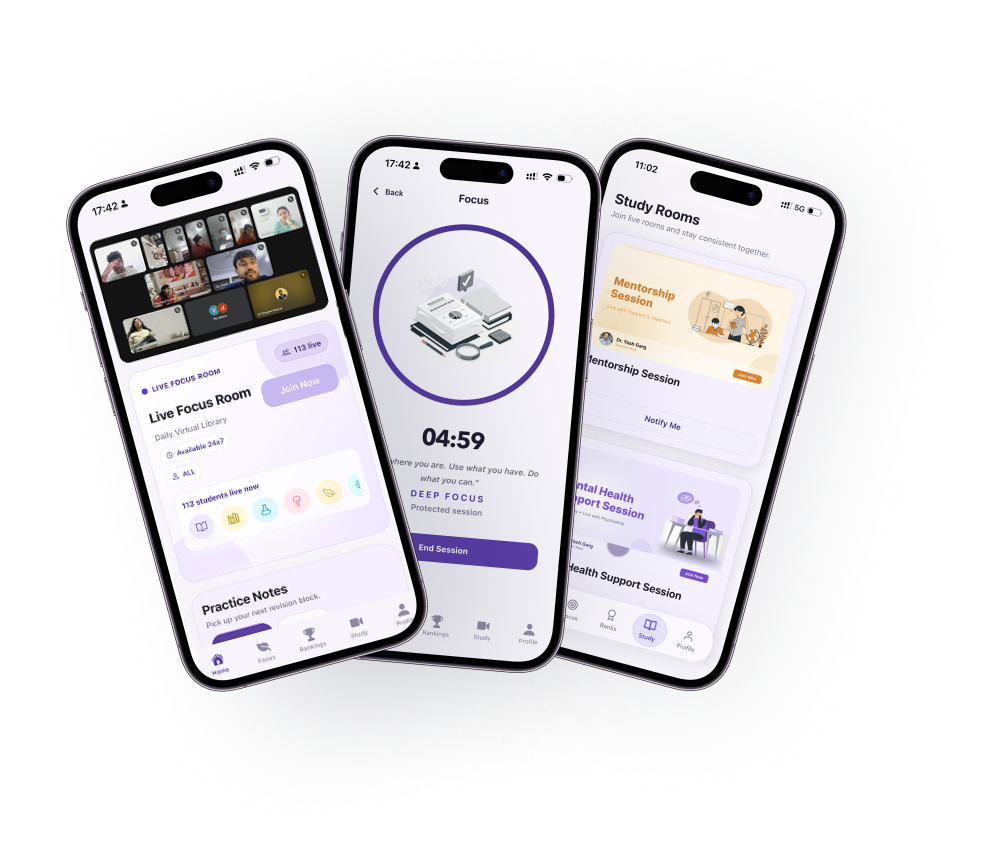
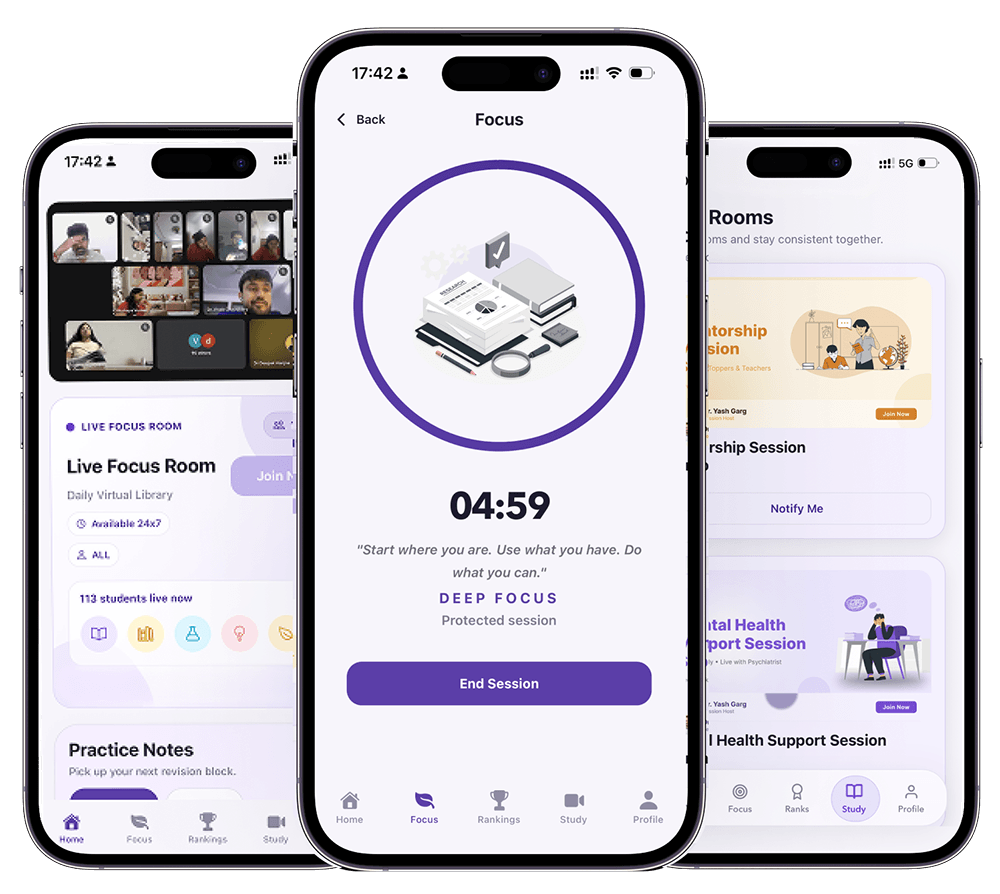
updates

diff --git a/components/v2/VirtualStudyHero.tsx b/components/v2/VirtualStudyHero.tsx
@@ -1,15 +1,23 @@
 const HERO_LIVE_ROOM_IMAGE = '/img/v2/hero_asset/hero_section.png'
 
 type VirtualStudyHeroProps = {
+  eyebrowText?: string
   primaryHref?: string
   googlePlayHref: string
   appStoreHref: string
 }
 
-const PROOF_CHIPS = [
-  { value: '235', label: 'studying now', tone: 'live' },
-  { value: '24/7', label: 'rooms open', tone: 'purple' },
-  { value: '3,000+', label: 'aspirants', tone: 'blue' },
+const PROOF_CARDS = [
+  {
+    icon: 'users',
+    title: '150+ Students Live',
+    description: 'Studying together right now',
+  },
+  {
+    icon: 'clock',
+    title: '24/7 Study Rooms',
+    description: 'Join anytime, day or night',
+  },
 ]
 
 const HERO_STATS = [
@@ -20,43 +28,42 @@ const HERO_STATS = [
 ]
 
 export default function VirtualStudyHero({
+  eyebrowText = "India's first Virtual Library Space",
   primaryHref = '#plans',
   googlePlayHref,
   appStoreHref,
 }: VirtualStudyHeroProps) {
   return (
     <section className="relative overflow-hidden bg-[linear-gradient(145deg,#f6f2ff_0%,#f2f8ff_46%,#fff7fb_100%)]">
-      <div className="relative mx-auto grid min-h-[calc(100svh-4rem)] w-full max-w-7xl items-center gap-8 px-4 py-7 sm:px-6 sm:py-9 lg:grid-cols-[minmax(0,1fr)_minmax(360px,520px)] lg:gap-12 lg:py-10">
-        <div className="relative z-20 mx-auto max-w-2xl text-center lg:mx-0 lg:text-left">
-          <p className="inline-flex items-center gap-2 rounded-full border border-[#c9ddff] bg-white/80 px-4 py-2 text-[0.78rem] font-bold text-[#185cff] shadow-[0_12px_28px_rgba(37,92,255,0.08)] backdrop-blur sm:text-sm">
-            <span className="relative flex h-2.5 w-2.5" aria-hidden="true">
-              <span className="absolute inline-flex h-full w-full animate-ping rounded-full bg-[#00d7a0] opacity-40" />
-              <span className="relative inline-flex h-2.5 w-2.5 rounded-full bg-[#00d7a0]" />
-            </span>
-            India's 24/7 Virtual Library
+      <div className="relative mx-auto flex w-full max-w-7xl flex-col items-center gap-5 px-4 pb-7 pt-6 text-center sm:gap-6 sm:px-6 sm:py-8 lg:min-h-[calc(100svh-4.5rem)] lg:flex-row lg:justify-between lg:gap-9 lg:py-5 lg:text-left xl:gap-12">
+        <div className="relative z-20 flex w-full max-w-xl flex-col items-center lg:max-w-3xl lg:items-start">
+          <p className="inline-flex items-center gap-2 rounded-full border border-[#e4dcff] bg-[#f1edff] px-4 py-2 text-[0.78rem] font-bold text-[#5b2ee5] shadow-[0_12px_28px_rgba(91,46,229,0.08)] sm:text-sm">
+            <TrophyIcon className="h-4 w-4" />
+            {eyebrowText}
           </p>
 
-          <h1 className="mt-5 text-[2.75rem] font-extrabold leading-[0.98] tracking-normal text-[#070711] sm:text-[4.35rem] lg:max-w-[40rem] lg:text-[5.15rem] xl:text-[5.7rem]">
-            24/7 Virtual{' '}
-            <span className="block bg-[linear-gradient(90deg,#265cff_0%,#7c3aed_52%,#8b22ff_100%)] bg-clip-text text-transparent">
-              Study Rooms
-            </span>
+          <h1 className="mt-4 max-w-[25rem] text-[2.85rem] font-bold leading-[1.02] tracking-normal text-[#050509] sm:max-w-[38rem] sm:text-[4rem] lg:max-w-3xl lg:text-[4.85rem] xl:text-[5.15rem]">
+            Stay{' '}
+            <span className="bg-[linear-gradient(90deg,#265cff_0%,#7c3aed_52%,#8b22ff_100%)] bg-clip-text text-transparent">
+              consistent
+            </span>{' '}
+            from home
           </h1>
 
-          <p className="mx-auto mt-5 max-w-xl text-base font-medium leading-7 text-[#625b74] sm:text-xl sm:leading-8 lg:mx-0">
-            Study from home with serious aspirants in always-on live rooms built for focus, discipline, and accountability.
+          <p className="mt-4 max-w-xl text-base font-medium leading-7 text-[#625b74] sm:text-lg sm:leading-8">
+            Join 3000+ aspirants in 24x7 study rooms built for focus, discipline, and accountability.
           </p>
 
-          <div className="mt-6 grid grid-cols-3 gap-2 sm:max-w-xl sm:gap-3 lg:max-w-lg">
-            {PROOF_CHIPS.map((chip) => (
-              <ProofChip key={chip.label} {...chip} />
+          <div className="mt-6 grid w-full max-w-md grid-cols-2 gap-2.5 lg:max-w-lg">
+            {PROOF_CARDS.map((card) => (
+              <ProofCard key={card.title} {...card} />
             ))}
           </div>
 
-          <div className="mt-6 grid gap-3 sm:grid-cols-[minmax(0,1fr)_minmax(0,1fr)] lg:max-w-xl">
+          <div className="mt-5 grid w-full max-w-md gap-3 sm:grid-cols-[minmax(0,1fr)_minmax(0,1fr)] lg:max-w-xl">
             <a
               href={primaryHref}
-              className="inline-flex h-14 items-center justify-center gap-2 rounded-[18px] bg-[#6d28d9] px-6 text-base font-bold text-white shadow-[0_18px_38px_rgba(109,40,217,0.24)] transition hover:bg-[#5b21b6] sm:rounded-[22px] sm:text-lg"
+              className="inline-flex h-14 items-center justify-center gap-2 rounded-[18px] bg-[#6d28d9] px-6 text-base font-bold text-white shadow-[0_18px_38px_rgba(109,40,217,0.24)] transition hover:bg-[#5b21b6] sm:text-lg"
             >
               Join Virtual Library Now
               <ArrowRightIcon className="h-5 w-5" />
@@ -65,27 +72,21 @@ export default function VirtualStudyHero({
           </div>
         </div>
 
-        <div className="relative z-10 mx-auto flex w-full max-w-[24rem] justify-center lg:max-w-[34rem]">
-          <div className="relative h-[19rem] w-full overflow-hidden sm:h-[30rem] lg:h-[38rem]">
-            <img
-              src={HERO_LIVE_ROOM_IMAGE}
-              alt="Virtual Library app live study room with students studying together"
-              className="pointer-events-none absolute left-1/2 top-0 h-[35rem] -translate-x-1/2 object-contain drop-shadow-[0_28px_80px_rgba(69,31,149,0.24)] sm:h-[48rem] lg:h-[53rem]"
-            />
-            <div className="pointer-events-none absolute inset-x-0 bottom-0 h-20 bg-[linear-gradient(180deg,rgba(250,247,255,0)_0%,rgba(250,247,255,0.92)_72%,#faf7ff_100%)] sm:h-24" />
-          </div>
-
-          <div className="absolute -left-1 top-7 hidden rounded-2xl border border-[#d8ccff] bg-white/95 px-4 py-3 shadow-[0_18px_42px_rgba(48,31,90,0.12)] backdrop-blur sm:block lg:left-0 lg:top-12">
-            <p className="flex items-center gap-2 text-xs font-bold uppercase text-[#0f9f91]">
-              <span className="h-2.5 w-2.5 rounded-full bg-[#00d7a0]" />
-              Live now
-            </p>
-            <p className="mt-1 text-lg font-extrabold text-[#171322]">235 studying</p>
-          </div>
-
-          <div className="absolute -right-1 bottom-14 hidden rounded-2xl border border-[#ebe2ff] bg-white/95 px-4 py-3 shadow-[0_18px_42px_rgba(48,31,90,0.10)] backdrop-blur sm:block lg:right-1 lg:bottom-20">
-            <p className="text-xs font-bold uppercase text-[#7c3aed]">Always open</p>
-            <p className="mt-1 text-lg font-extrabold text-[#171322]">24/7 rooms</p>
+        <div className="relative z-10 mx-auto flex w-full max-w-[23rem] justify-center sm:max-w-[26rem] lg:mx-0 lg:max-w-[34rem] xl:max-w-[36rem]">
+          <div className="relative h-[18rem] w-full sm:h-[23rem] lg:h-[35rem] xl:h-[39rem]">
+            <div
+              className="absolute -inset-x-8 -bottom-8 -top-5 overflow-hidden sm:-inset-x-12 sm:-bottom-10 sm:-top-8"
+              style={{
+                WebkitMaskImage: 'linear-gradient(180deg,#000 0%,#000 76%,rgba(0,0,0,0.72) 86%,rgba(0,0,0,0) 100%)',
+                maskImage: 'linear-gradient(180deg,#000 0%,#000 76%,rgba(0,0,0,0.72) 86%,rgba(0,0,0,0) 100%)',
+              }}
+            >
+              <img
+                src={HERO_LIVE_ROOM_IMAGE}
+                alt="Virtual Library app live study room with students studying together"
+                className="pointer-events-none absolute left-1/2 top-4 h-[34rem] -translate-x-1/2 object-contain drop-shadow-[0_36px_96px_rgba(69,31,149,0.18)] sm:top-6 sm:h-[42rem] lg:h-[50rem] xl:h-[54rem]"
+              />
+            </div>
           </div>
         </div>
       </div>
@@ -104,19 +105,55 @@ export default function VirtualStudyHero({
   )
 }
 
-function ProofChip({ value, label, tone }: { value: string; label: string; tone: string }) {
-  const toneClass =
-    tone === 'live'
-      ? 'border-[#b7f4df] bg-[#f1fff8] text-[#0f9f91]'
-      : tone === 'blue'
-        ? 'border-[#c9ddff] bg-[#f3f8ff] text-[#185cff]'
-        : 'border-[#d8ccff] bg-white text-[#6d28d9]'
-
+function ProofCard({
+  icon,
+  title,
+  description,
+}: {
+  icon: string
+  title: string
+  description: string
+}) {
   return (
-    <div className={`rounded-2xl border px-3 py-3 text-center shadow-[0_12px_26px_rgba(35,24,70,0.05)] ${toneClass}`}>
-      <p className="text-lg font-extrabold leading-none sm:text-2xl">{value}</p>
-      <p className="mt-1 text-[0.72rem] font-bold leading-4 text-[#575069] sm:text-sm">{label}</p>
+    <div className="inline-flex h-14 min-w-0 items-center gap-2.5 rounded-full border border-[#ebe7f6] bg-white/95 px-3 text-left shadow-[0_12px_28px_rgba(48,31,90,0.06)] sm:px-3.5">
+      <span className="flex h-10 w-10 shrink-0 items-center justify-center rounded-full bg-[#eee8ff] text-[#5b2ee5]">
+        {icon === 'clock' ? <ClockIcon className="h-5 w-5" /> : <UsersIcon className="h-5 w-5" />}
+      </span>
+      <span className="min-w-0">
+        <span className="block truncate text-[0.82rem] font-bold leading-4 text-[#070711] sm:text-sm">{title}</span>
+        <span className="hidden text-xs font-medium leading-4 text-[#625b74] xl:block">
+          {description}
+        </span>
+      </span>
     </div>
+  )
+}
+
+function TrophyIcon({ className }: { className?: string }) {
+  return (
+    <svg viewBox="0 0 24 24" fill="none" stroke="currentColor" aria-hidden="true" className={className}>
+      <path d="M8 4h8v3.5c0 3-1.8 5.5-4 5.5S8 10.5 8 7.5V4Z" strokeLinecap="round" strokeLinejoin="round" strokeWidth="2.2" />
+      <path d="M8 6H5.5A1.5 1.5 0 0 0 4 7.5C4 10 5.6 12 8.2 12M16 6h2.5A1.5 1.5 0 0 1 20 7.5c0 2.5-1.6 4.5-4.2 4.5M12 13v4M9 20h6M10 17h4" strokeLinecap="round" strokeLinejoin="round" strokeWidth="2.2" />
+    </svg>
+  )
+}
+
+function UsersIcon({ className }: { className?: string }) {
+  return (
+    <svg viewBox="0 0 24 24" fill="none" stroke="currentColor" aria-hidden="true" className={className}>
+      <path d="M9.5 11a3.5 3.5 0 1 0 0-7 3.5 3.5 0 0 0 0 7ZM3.8 20c.8-3.2 3-5 5.7-5s4.9 1.8 5.7 5" strokeLinecap="round" strokeLinejoin="round" strokeWidth="2.2" />
+      <path d="M16.2 11.4a3 3 0 1 0-.8-5.9M15.5 15.2c2.4.4 4.1 2 4.7 4.8" strokeLinecap="round" strokeLinejoin="round" strokeWidth="2.2" />
+    </svg>
+  )
+}
+
+function ClockIcon({ className }: { className?: string }) {
+  return (
+    <svg viewBox="0 0 24 24" fill="none" stroke="currentColor" aria-hidden="true" className={className}>
+      <path d="M12 21a9 9 0 1 0-9-9 9 9 0 0 0 9 9Z" strokeLinecap="round" strokeLinejoin="round" strokeWidth="2.2" />
+      <path d="M12 7v5l3 2" strokeLinecap="round" strokeLinejoin="round" strokeWidth="2.2" />
+      <path d="M18.5 19.5h2.7M21.2 19.5v-3.1M21.2 19.5l-3.1-3.1" strokeLinecap="round" strokeLinejoin="round" strokeWidth="2" />
+    </svg>
   )
 }
 
@@ -128,14 +165,14 @@ function DownloadStoreButton({
   appStoreHref: string
 }) {
   return (
-    <div className="flex h-14 w-full items-center justify-center gap-4 rounded-[18px] border border-[#e2ddea] bg-white px-6 text-sm font-bold text-[#070711] shadow-[0_12px_26px_rgba(35,24,70,0.05)] sm:gap-5 sm:rounded-[22px] sm:text-lg">
+    <div className="flex h-14 w-full items-center justify-center gap-3 rounded-[18px] border border-[#e2ddea] bg-white px-6 text-base font-bold text-[#070711] shadow-[0_12px_26px_rgba(35,24,70,0.05)] sm:text-lg">
       <span>Download on</span>
       <a href={googlePlayHref} target="_blank" rel="noreferrer" aria-label="Download on Google Play">
-        <PlayStoreIcon className="h-5 w-5 sm:h-7 sm:w-7" />
+        <PlayStoreIcon className="h-6 w-6" />
       </a>
-      <span aria-hidden="true" className="h-6 w-px bg-[#d8d3df] sm:h-7" />
+      <span aria-hidden="true" className="h-6 w-px bg-[#d8d3df]" />
       <a href={appStoreHref} target="_blank" rel="noreferrer" aria-label="Download on App Store">
-        <AppleIcon className="h-5 w-5 text-[#8b8b8b] sm:h-7 sm:w-7" />
+        <AppleIcon className="h-6 w-6 text-[#8b8b8b]" />
       </a>
     </div>
   )

diff --git a/pages/neet-pg.tsx b/pages/neet-pg.tsx
@@ -529,7 +529,11 @@ export default function Home() {
       <div className="min-h-screen overflow-x-hidden bg-[#f7f6fb] text-[#171322]">
         <SiteNavbar />
         <main>
-          <VirtualStudyHero googlePlayHref={GOOGLE_PLAY_HREF} appStoreHref={APP_STORE_HREF} />
+          <VirtualStudyHero
+            eyebrowText="India's Premier NEET-PG platform"
+            googlePlayHref={GOOGLE_PLAY_HREF}
+            appStoreHref={APP_STORE_HREF}
+          />
           <FeatureSection />
           <TogetherSection />
           <AudienceSection />
@@ -581,10 +585,10 @@ function FeatureSection() {
                 aria-expanded={isExpanded}
                 aria-controls={`feature-description-${index}`}
                 onClick={() => setExpandedFeature(isExpanded ? null : index)}
-                className="group w-full rounded-[22px] border border-[#e5deee] bg-white/95 p-5 text-left shadow-[0_18px_42px_rgba(48,31,90,0.08)] ring-1 ring-white/70 transition duration-300 hover:-translate-y-1 hover:border-[#c7b3ff] hover:shadow-[0_28px_70px_rgba(90,54,180,0.14)] sm:min-h-[252px] sm:cursor-default sm:rounded-[28px] sm:p-7"
+                className="group w-full rounded-[22px] border border-[#e5deee] bg-white/95 p-5 text-left ring-1 ring-white/70 transition duration-300 hover:-translate-y-1 hover:border-[#c7b3ff] sm:min-h-[252px] sm:cursor-default sm:rounded-[28px] sm:p-7"
               >
                 <div className="flex items-center gap-4 sm:block">
-                  <span className="flex h-12 w-12 shrink-0 items-center justify-center rounded-[17px] bg-[linear-gradient(145deg,#efe7ff,#ddcdff)] text-[#753ee6] shadow-[0_14px_30px_rgba(117,62,230,0.16)] ring-1 ring-[#d9caff] transition group-hover:scale-105 sm:h-14 sm:w-14 sm:rounded-[20px]">
+                  <span className="flex h-12 w-12 shrink-0 items-center justify-center rounded-[17px] bg-[#7c3aed] text-white ring-1 ring-[#7c3aed] transition group-hover:scale-105 sm:h-14 sm:w-14 sm:rounded-[20px]">
                     <Icon name={feature.icon} className="h-[21px] w-[21px] sm:h-6 sm:w-6" />
                   </span>
 
@@ -694,10 +698,10 @@ function AudienceSection() {
             {AUDIENCES.map((audience, index) => (
               <article
                 key={audience.title}
-                className={`${audience.tone} group flex min-h-[76px] items-center gap-4 rounded-[22px] border border-white/70 px-4 py-4 shadow-[0_16px_38px_rgba(59,43,101,0.08)] ring-1 ring-[#e7ddfb]/70 transition duration-300 hover:-translate-y-0.5 hover:shadow-[0_24px_58px_rgba(86,52,180,0.14)] sm:min-h-[92px] sm:rounded-[24px] sm:px-5 ${index === AUDIENCES.length - 1 ? 'md:col-span-2' : ''}`}
+                className={`group flex min-h-[76px] items-center gap-4 rounded-[22px] border border-[#e9e1f6] bg-white/95 px-4 py-4 ring-1 ring-white/80 transition duration-300 hover:-translate-y-0.5 hover:border-[#d8c9ff] sm:min-h-[92px] sm:rounded-[24px] sm:px-5 ${index === AUDIENCES.length - 1 ? 'md:col-span-2' : ''}`}
               >
                 <span
-                  className={`${audience.iconTone} flex h-11 w-11 shrink-0 items-center justify-center rounded-[14px] bg-white shadow-[0_12px_26px_rgba(67,47,112,0.10)] ring-1 ring-[#eee7fb] transition group-hover:scale-105 sm:h-12 sm:w-12 sm:rounded-[16px]`}
+                  className="flex h-11 w-11 shrink-0 items-center justify-center rounded-[14px] border border-[#eadfff] bg-white text-[#7c3aed] transition group-hover:scale-105 group-hover:border-[#d8c9ff] sm:h-12 sm:w-12 sm:rounded-[16px]"
                 >
                   <Icon name={audience.icon} className="h-[18px] w-[18px]" />
                 </span>

diff --git a/components/SiteNavbar.tsx b/components/SiteNavbar.tsx
@@ -29,10 +29,10 @@ export default function SiteNavbar({
   const closeMenu = () => setIsOpen(false)
 
   return (
-    <header className="sticky top-0 z-[9999] border-b border-[#ece7f4] bg-white shadow-[0_8px_24px_rgba(48,32,88,0.06)]">
-      <div className="relative z-[10000] mx-auto flex h-16 max-w-7xl items-center justify-between gap-4 bg-white px-4 sm:px-6">
+    <header className="sticky top-0 z-[9999] border-b border-[#f0ebf7] bg-white/95 shadow-[0_8px_20px_rgba(48,32,88,0.04)] backdrop-blur">
+      <div className="relative z-[10000] mx-auto flex h-16 max-w-7xl items-center justify-between gap-4 px-4 sm:px-6 lg:h-[4.5rem]">
         <Link href="/" className="flex shrink-0 items-center" aria-label="Virtual Library home" onClick={closeMenu}>
-          <img src="/img/logo.svg" alt="Virtual Library" className="h-8 w-auto" />
+          <img src="/img/logo.svg" alt="Virtual Library" className="h-9 w-auto sm:h-10" />
         </Link>
 
         <nav className="hidden items-center gap-7 text-sm font-bold text-[#575069] lg:flex">
@@ -46,19 +46,19 @@ export default function SiteNavbar({
         <div className="flex shrink-0 items-center gap-3">
           <a
             href={ctaHref}
-            className="hidden h-10 items-center justify-center rounded-lg bg-[#6d35df] px-4 text-sm font-bold text-white shadow-[0_14px_28px_rgba(109,53,223,0.18)] transition hover:bg-[#5b25c9] sm:inline-flex"
+            className="hidden h-10 items-center justify-center rounded-lg bg-[#6d35df] px-4 text-sm font-bold text-white shadow-[0_14px_28px_rgba(109,53,223,0.18)] transition hover:bg-[#5b25c9] lg:inline-flex"
           >
             {ctaLabel}
           </a>
           <button
             type="button"
-            className="inline-flex h-10 w-10 items-center justify-center rounded-xl border border-[#e5deee] bg-white text-[#171322] shadow-[0_10px_22px_rgba(48,32,88,0.06)] transition hover:border-[#cbbcff] hover:text-[#6d35df] lg:hidden"
+            className="inline-flex h-11 w-11 items-center justify-center rounded-xl border border-[#f2eef8] bg-white text-[#202540] shadow-[0_10px_24px_rgba(48,32,88,0.08)] transition hover:border-[#d9ceff] hover:text-[#6d35df] lg:hidden"
             aria-controls="mobile-site-nav"
             aria-expanded={isOpen}
             aria-label={isOpen ? 'Close navigation menu' : 'Open navigation menu'}
             onClick={() => setIsOpen((current) => !current)}
           >
-            {isOpen ? <CloseIcon className="h-5 w-5" /> : <MenuIcon className="h-5 w-5" />}
+            {isOpen ? <CloseIcon className="h-6 w-6" /> : <MenuIcon className="h-6 w-6" />}
           </button>
         </div>
       </div>
@@ -79,7 +79,7 @@ export default function SiteNavbar({
         />
 
         <div
-          className={`relative mx-3 mt-3 overflow-hidden rounded-[28px] border border-[#ece7f4] bg-white shadow-[0_24px_70px_rgba(48,32,88,0.18)] transition duration-300 ease-out sm:mx-6 ${
+          className={`relative mx-4 mt-3 overflow-hidden rounded-[24px] border border-[#ece7f4] bg-white shadow-[0_24px_70px_rgba(48,32,88,0.18)] transition duration-300 ease-out sm:mx-6 ${
             isOpen ? 'translate-y-0 opacity-100' : '-translate-y-3 opacity-0'
           }`}
         >

diff --git a/pages/index.tsx b/pages/index.tsx
@@ -504,10 +504,10 @@ function FeatureSection() {
                 aria-expanded={isExpanded}
                 aria-controls={`feature-description-${index}`}
                 onClick={() => setExpandedFeature(isExpanded ? null : index)}
-                className="group w-full rounded-[22px] border border-[#e5deee] bg-white/95 p-5 text-left shadow-[0_18px_42px_rgba(48,31,90,0.08)] ring-1 ring-white/70 transition duration-300 hover:-translate-y-1 hover:border-[#c7b3ff] hover:shadow-[0_28px_70px_rgba(90,54,180,0.14)] sm:min-h-[252px] sm:cursor-default sm:rounded-[28px] sm:p-7"
+                className="group w-full rounded-[22px] border border-[#e5deee] bg-white/95 p-5 text-left ring-1 ring-white/70 transition duration-300 hover:-translate-y-1 hover:border-[#c7b3ff] sm:min-h-[252px] sm:cursor-default sm:rounded-[28px] sm:p-7"
               >
                 <div className="flex items-center gap-4 sm:block">
-                  <span className="flex h-12 w-12 shrink-0 items-center justify-center rounded-[17px] bg-[linear-gradient(145deg,#efe7ff,#ddcdff)] text-[#753ee6] shadow-[0_14px_30px_rgba(117,62,230,0.16)] ring-1 ring-[#d9caff] transition group-hover:scale-105 sm:h-14 sm:w-14 sm:rounded-[20px]">
+                  <span className="flex h-12 w-12 shrink-0 items-center justify-center rounded-[17px] bg-[#7c3aed] text-white ring-1 ring-[#7c3aed] transition group-hover:scale-105 sm:h-14 sm:w-14 sm:rounded-[20px]">
                     <Icon name={feature.icon} className="h-[21px] w-[21px] sm:h-6 sm:w-6" />
                   </span>
 
@@ -613,10 +613,10 @@ function AudienceSection() {
           {AUDIENCES.map((audience) => (
             <article
               key={audience.title}
-              className={`${audience.tone} group flex min-h-[76px] items-center gap-4 rounded-[22px] border border-white/70 p-4 shadow-[0_16px_38px_rgba(59,43,101,0.08)] ring-1 ring-[#e7ddfb]/70 transition duration-300 hover:-translate-y-0.5 hover:shadow-[0_24px_58px_rgba(86,52,180,0.14)] sm:min-h-[92px] sm:rounded-[26px]`}
+              className="group flex min-h-[76px] items-center gap-4 rounded-[22px] border border-[#e9e1f6] bg-white/95 p-4 ring-1 ring-white/80 transition duration-300 hover:-translate-y-0.5 hover:border-[#d8c9ff] sm:min-h-[92px] sm:rounded-[26px]"
             >
               <span
-                className={`${audience.iconTone} flex h-11 w-11 shrink-0 items-center justify-center rounded-[14px] bg-white shadow-[0_12px_26px_rgba(67,47,112,0.10)] ring-1 ring-[#eee7fb] transition group-hover:scale-105 sm:h-12 sm:w-12 sm:rounded-[16px]`}
+                className="flex h-11 w-11 shrink-0 items-center justify-center rounded-[14px] border border-[#eadfff] bg-white text-[#7c3aed] transition group-hover:scale-105 group-hover:border-[#d8c9ff] sm:h-12 sm:w-12 sm:rounded-[16px]"
               >
                 <Icon name={audience.icon} className="h-[18px] w-[18px]" />
               </span>
